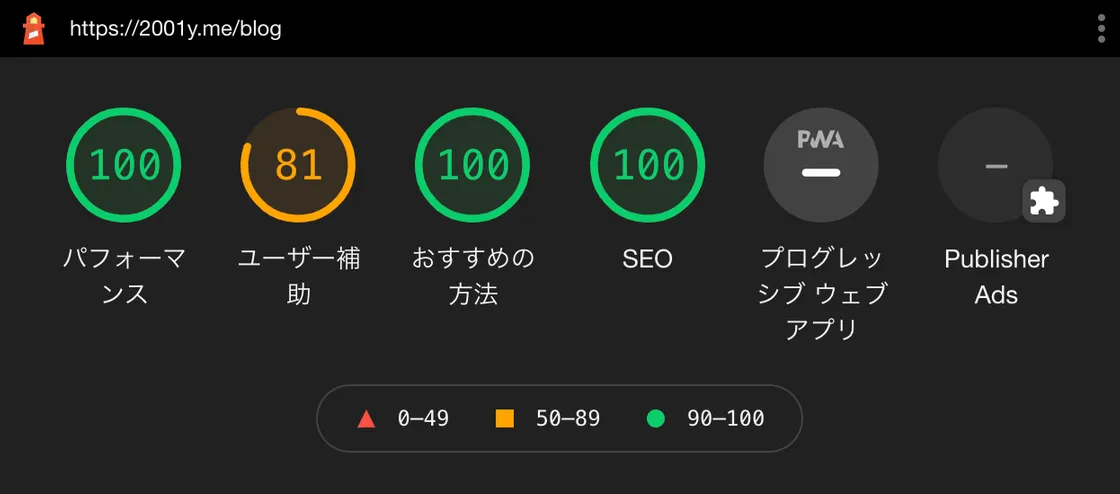
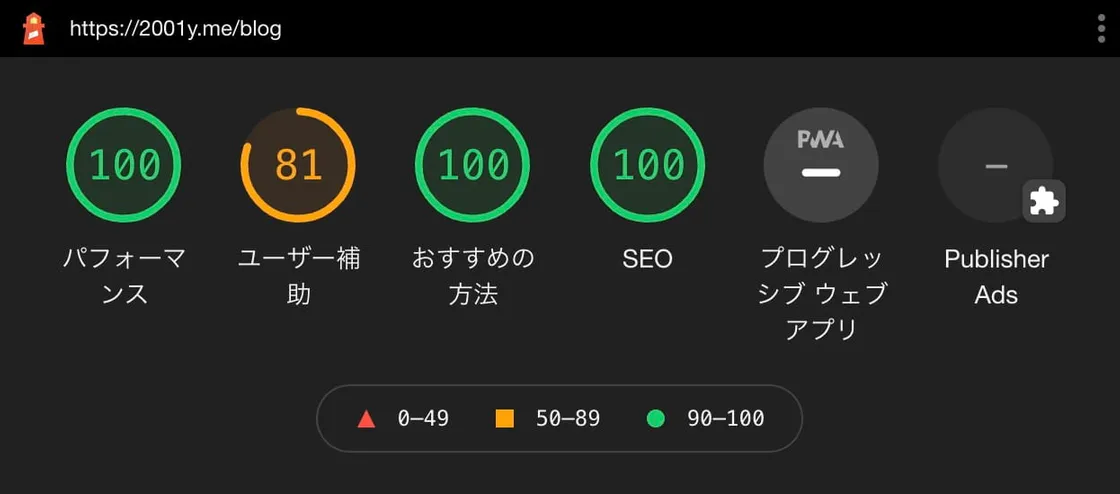
add Post

diff --git a/content/blog/web/-lighthouse-placeholder.md b/content/blog/web/-lighthouse-placeholder.md
@@ -8,7 +8,7 @@ tags: ["Web","PWA","サイト","iOS"]
 
 
 
-![](../../../images/lighthouse-placeholder-0.png)
+![](../../../images/lighthouse-placeholder-0.jpg)
 
 {{<ad>}}
 
